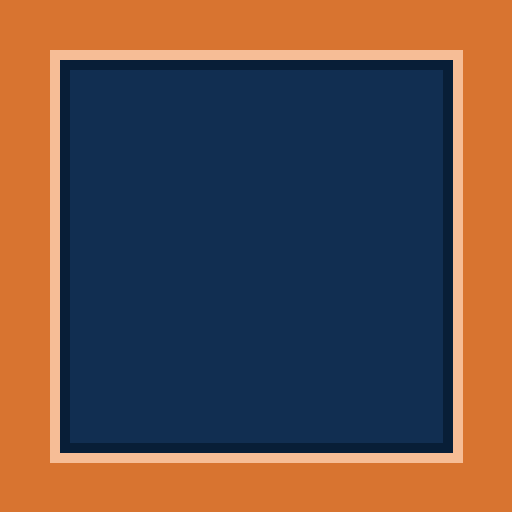
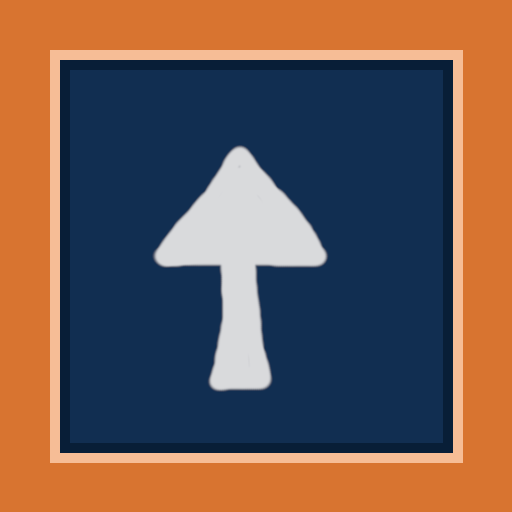
add arrow to 'trust.png'

Changed region(s): [[0.2812, 0.2812, 0.6562, 0.7812]]

diff --git a/README.md b/README.md
@@ -6,7 +6,7 @@ With this project I test the capabilities of the **ebiten** game engine while al
 
 ## next Steps (TODO):
 - [X] make player object rotate towards the mouse Cursor
-- [ ] draw arrow on player object to make it obvious what it is facing atm
+- [X] draw arrow on player object to make it obvious what it is facing atm
 - [ ] refactor the main file to generalise the functionality so it can be used of other objects (besides player-object)
-- [ ] figure out how embed other go files (in the same directory and in other directories)
+- [X] figure out how embed other go files (in the same directory and in other directories)
 - [ ] add keyboard input for moving the player-object
